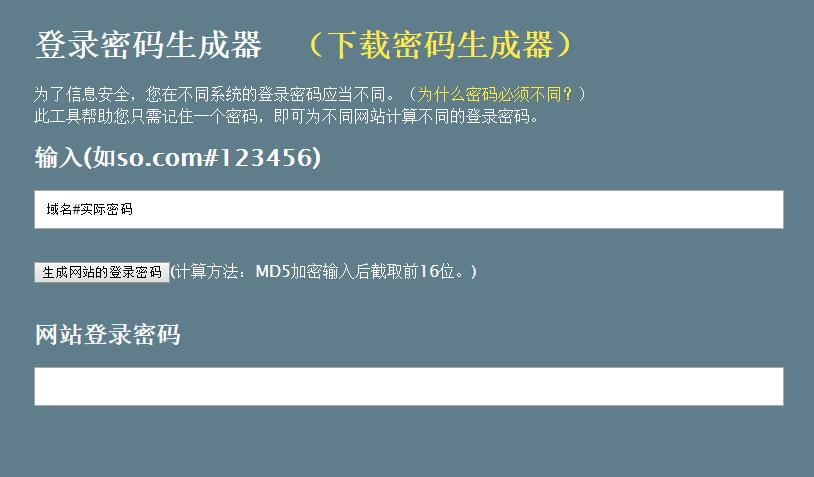
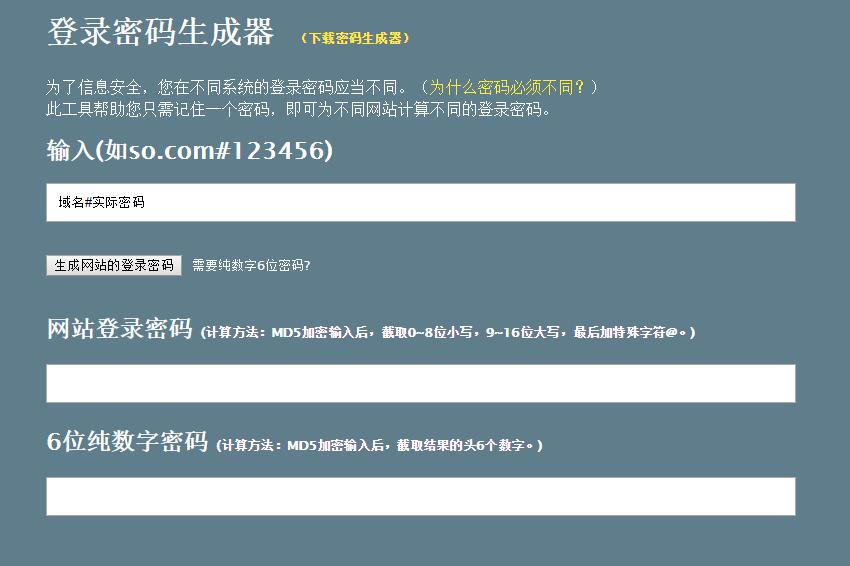
update

diff --git a/pass.html b/pass.html
@@ -11,7 +11,7 @@
 <link rel="stylesheet" href="./demo.css">
 </head>
 <body>
-<h1>登录密码生成器 &nbsp;&nbsp;<a target="_blank" href="./pass.zip">（下载密码生成器）</a></h1>
+<h1>登录密码生成器 &nbsp;<a target="_blank" href="./pass.zip" style="font-size: small;">（下载密码生成器）</a></h1>
 为了信息安全，您在不同系统的登录密码应当不同。（<a href="http://it.people.com.cn/n/2014/1226/c1009-26279528.html" target="_blank">为什么密码必须不同？</a>）<br/>
 此工具帮助您只需记住一个密码，即可为不同网站计算不同的登录密码。
 <br/>
@@ -20,11 +20,20 @@
     <input   id="input" >
     <br>
 	<br/>
-    <button type="submit" id="calculate">生成网站的登录密码</button>(计算方法：MD5加密输入后截取前16位。)
+    <button type="submit" id="calculate">生成网站的登录密码</button>
+	 &nbsp;<a href="#" onclick='showSixNumber();' style="font-size: small;color:white">需要纯数字6位密码?</a>
+	
     <br>
 	<br/>
-    <h2>网站登录密码</h2>
+	
+    <h2>网站登录密码&nbsp;<a  style="font-size: small;color:white">(计算方法：MD5加密输入后，截取0~8位小写，9~16位大写，最后加特殊字符@。)</a></h2>
     <input id="result">
+
+	<div id="sixNumber" style="display:none;visibility:hidden;">
+    <h2>6位纯数字密码&nbsp;<a  style="font-size: small;color:white">(计算方法：MD5加密输入后，截取结果的头6个数字。)</a></h2>
+    <input id="numberResult">
+	</div>
+	
     <br>
 </form>
 <br/>

diff --git a/demo.js b/demo.js
@@ -19,8 +19,22 @@
     'click',
     function (event) {
       event.preventDefault()
-      document.getElementById('result').value = md5(input.value).substr(0,16);
+	  var str = md5(input.value);
+      document.getElementById('result').value = str.substr(0,8) + str.substr(8,8).toLocaleUpperCase() + "@";
+	  document.getElementById('numberResult').value = str.replace(/[^\d]/g,'').substr(0,6);
+	
+	  
     }
   )
   input.value = '域名#实际密码'
 }())
+
+
+
+function showSixNumber(){
+	
+	document.getElementById("sixNumber").style.visibility="visible";
+	document.getElementById("sixNumber").style.display="block";
+	
+	
+}
